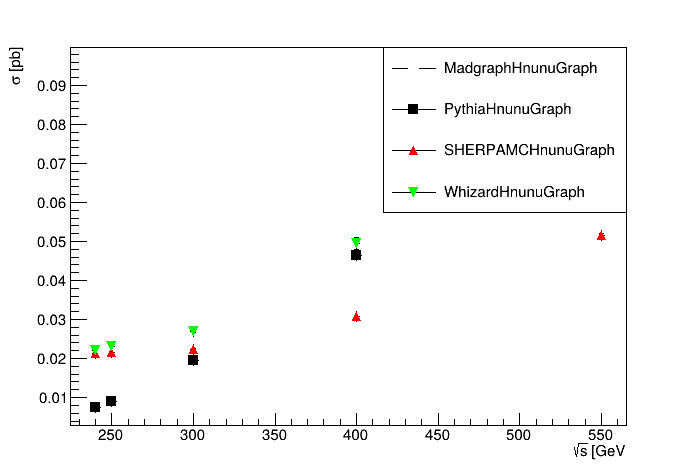
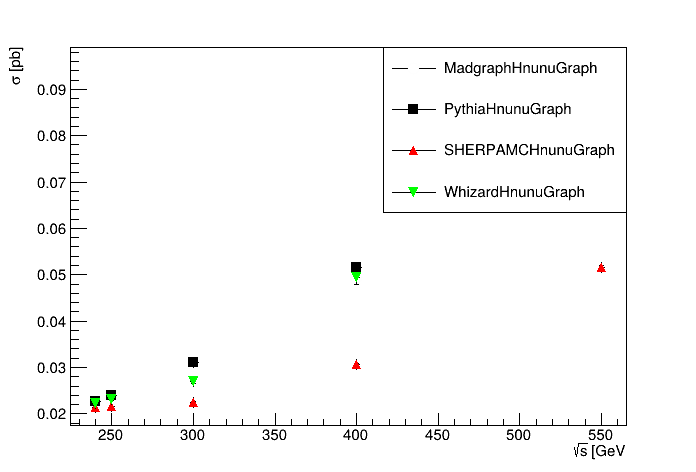
update Pythia setting Hnunu

diff --git a/python/Generators/PythiaProcDB.py b/python/Generators/PythiaProcDB.py
@@ -94,8 +94,11 @@ class PythiaProcDB:
         self.procout += "23:onMode = on\n"
 
     def write_run_Hnunu(self):
-        self.procout = "HiggsSM:ff2Hff(t:WW) = on\n"
+        self.procout =  "HiggsSM:ff2Hff(t:WW) = on\n"
+        self.procout += "HiggsSM:ffbar2HZ = on\n"
         self.procout += "25:onMode = on\n"
+        self.procout += "23:onMode = off\n"
+        self.procout += "23:onIfAny = 12\n"
 
     def write_Ditop(self):
         self.procout = "Top:ffbar2ttbar(s:gmZ) = on\n"
